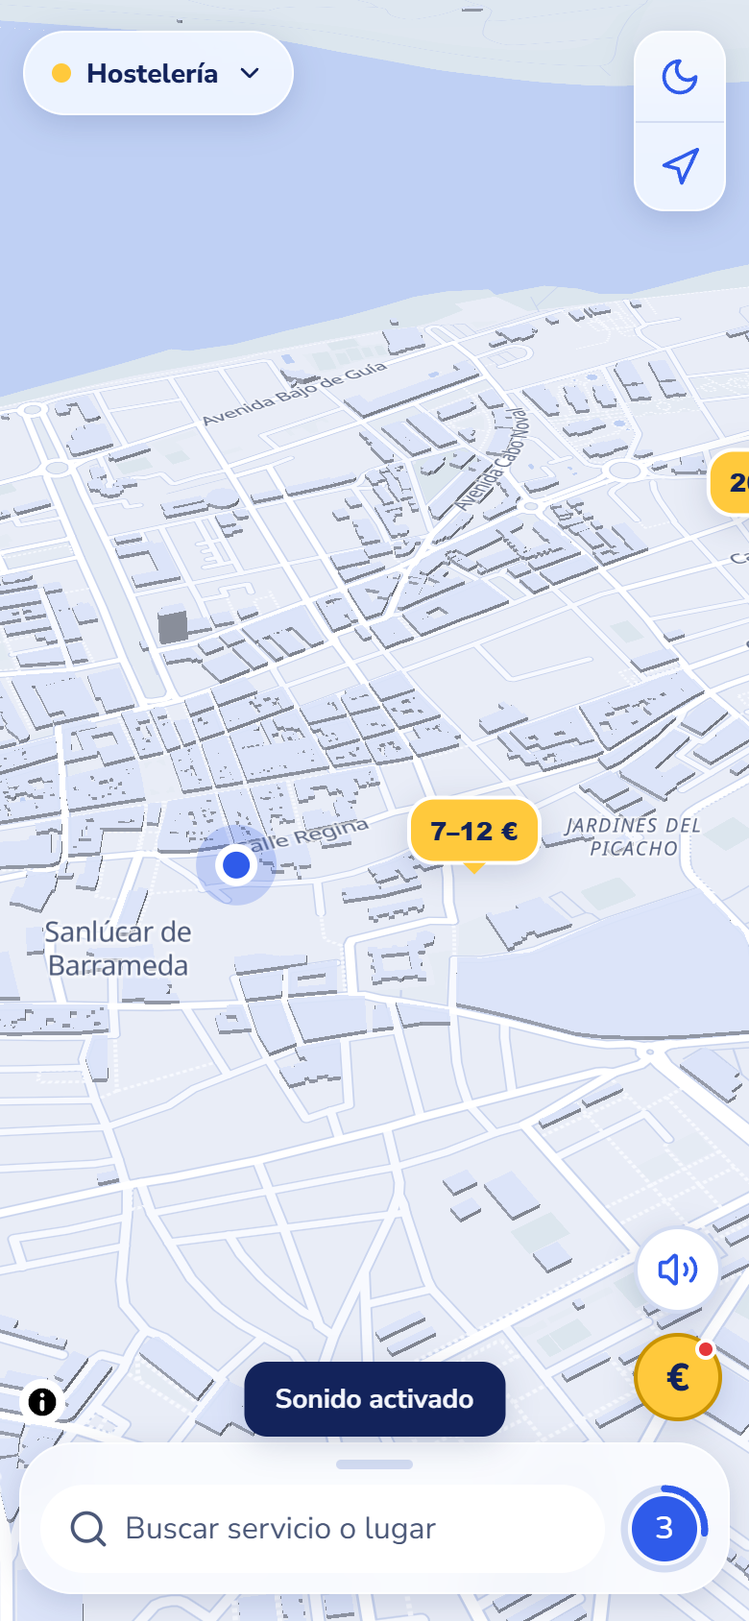
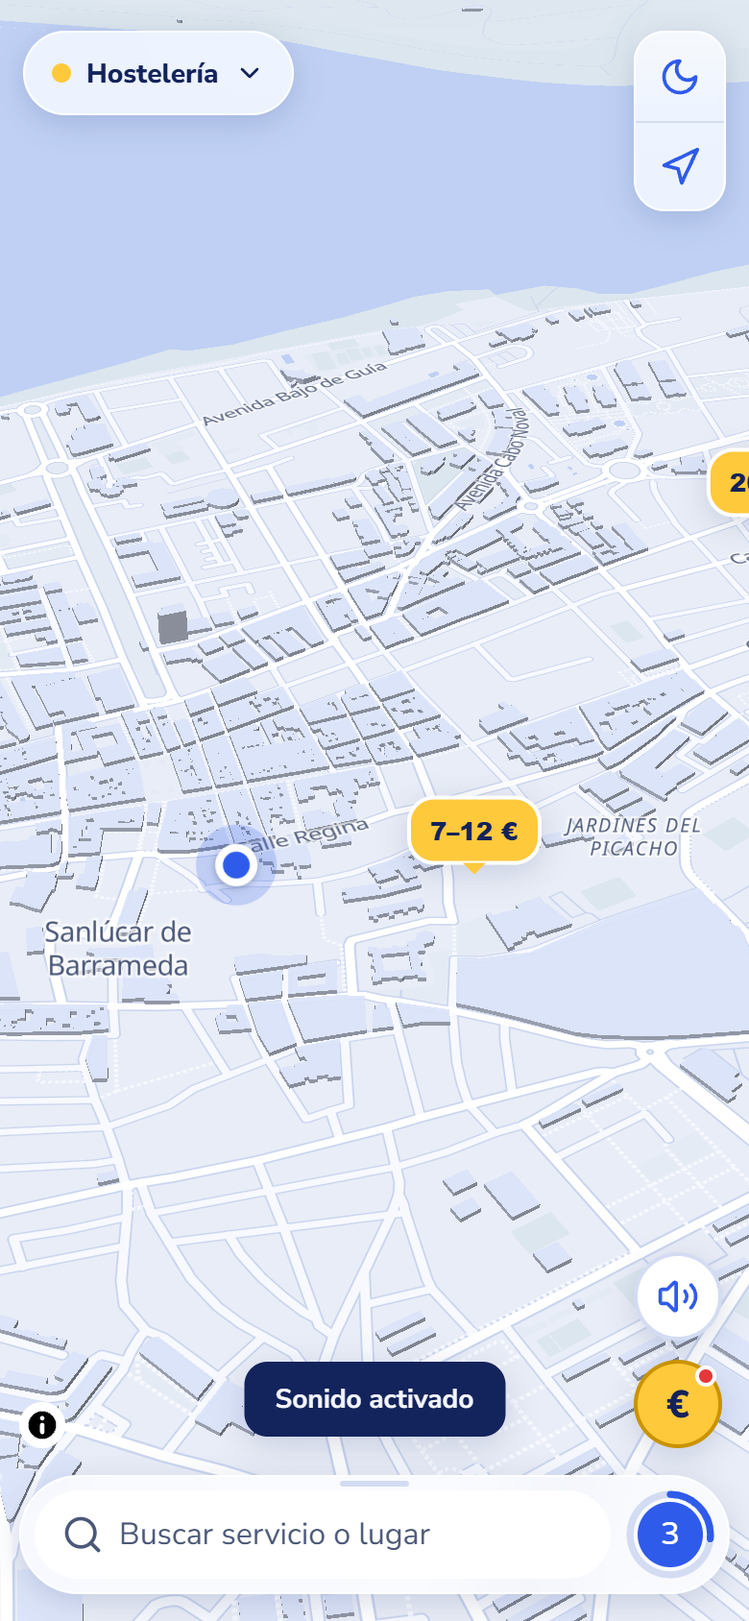
Pregunta a la hora de llegar; ruta hasta 'He finalizado' o 1 min; flecha en coche y cono de brujula a pie; barra del buscador fina y simetrica

Changed region(s): [[0.7385, 0.7393, 0.9846, 0.9858], [0.0308, 0.8318, 0.5846, 0.955]]

diff --git a/prototipo/app.js b/prototipo/app.js
@@ -71,9 +71,12 @@ const S = {
   travelMode: 'coche',                                 // se elige en la ficha; el coche es la opción principal
   settings: { buildings: true, reduceMotion: false, voice: true, sound: true, notifPending: true, notifAlerts: true, anonAll: false },
 };
-// Tiempo desde que llegas hasta que la app pregunta "¿has ido?". 1 minuto para comprobarlo; se ampliará más adelante.
-const ASK_DELAY_MS = 60 * 1000;
+// Tiempo desde que llegas hasta que la app pregunta "¿has ido?": 1 hora, para que dé tiempo a recibir el servicio.
+const ASK_DELAY_MS = 60 * 60 * 1000;
+// Al llegar, la ruta sigue en pantalla hasta pulsar "He finalizado" o hasta que pase este tiempo.
+const ARRIVE_END_MS = 60 * 1000;
 const askDelay = () => window.__askDelayMs ?? ASK_DELAY_MS; // las capturas automáticas lo acortan
+const fmtDelay = ms => ms >= 3600000 ? `${+(ms / 3600000).toFixed(1)} h` : ms >= 60000 ? `${Math.round(ms / 60000)} min` : `${Math.round(ms / 1000)} s`;
 const level = xp => Math.floor(xp / XP_PER_LEVEL) + 1;
 
 // ---------- Utilidades ----------
@@ -285,8 +288,11 @@ function initMap() {
 
   const me = document.createElement('div');
   me.className = 'me';
-  userMarker = new maplibregl.Marker({ element: me }).setLngLat(USER_POS).addTo(map);
+  me.innerHTML = '<div class="me-cone"></div><div class="me-dot"></div><svg class="me-arrow" viewBox="0 0 24 24" aria-hidden="true"><path d="M12 2.5 19.5 20.5 12 16.6 4.5 20.5Z"/></svg>';
+  // rotationAlignment 'map': la rotación es un rumbo respecto al norte (0° = norte), aunque el mapa gire
+  userMarker = new maplibregl.Marker({ element: me, rotationAlignment: 'map', pitchAlignment: 'viewport' }).setLngLat(USER_POS).addTo(map);
   applyCosmetics();
+  updateMe();
 
   for (const p of PLACES) {
     const el = document.createElement('button');
@@ -301,8 +307,49 @@ function initMap() {
 
 function applyCosmetics() {
   const el = userMarker?.getElement(); if (!el) return;
-  el.className = `me ${S.equipped.flecha}`;
+  el.dataset.skin = S.equipped.flecha;
   if (map?.isStyleLoaded()) styleRoute();
+}
+
+// ---------- Indicador de posición: círculo, cono (brújula) o flecha (coche) ----------
+// - Navegando en coche: flecha que apunta hacia donde vas (rumbo de la ruta).
+// - Navegando a pie: círculo con un cono translúcido hacia donde mira el móvil (brújula);
+//   si el dispositivo no tiene brújula (ordenador), el cono sigue la dirección de la ruta.
+// - Sin navegar: círculo, con cono si hay datos de brújula (como en Mapas de Apple).
+function updateMe() {
+  const el = userMarker?.getElement(); if (!el) return;
+  const nav = S.navigating;
+  let mode = 'dot', rot = 0;
+  if (nav && nav.mode === 'coche') { mode = 'arrow'; rot = nav.heading; }
+  else if (nav) { mode = 'cone'; rot = S.compass ?? nav.heading; }
+  else if (S.compass != null) { mode = 'cone'; rot = S.compass; }
+  el.dataset.mode = mode;
+  userMarker.setRotation(rot || 0);
+}
+
+// Brújula del móvil. iOS da el rumbo en webkitCompassHeading (pide permiso con un toque del usuario);
+// Android da "deviceorientationabsolute" con alpha (sentido antihorario) → rumbo = 360 − alpha.
+// Requiere HTTPS (o localhost) en el móvil.
+function onOrientation(e) {
+  let h = null;
+  if (typeof e.webkitCompassHeading === 'number') h = e.webkitCompassHeading;
+  else if (e.absolute && typeof e.alpha === 'number') h = 360 - e.alpha;
+  if (h == null) return;
+  h += screen.orientation?.angle || 0; // móvil en horizontal
+  S.compass = (h + 360) % 360;
+  updateMe();
+}
+let compassOn = false;
+function startCompass() { // llamar desde un toque del usuario (requisito de iOS)
+  if (compassOn) return;
+  const listen = () => {
+    compassOn = true;
+    window.addEventListener('deviceorientationabsolute', onOrientation);
+    window.addEventListener('deviceorientation', onOrientation);
+  };
+  const DOE = window.DeviceOrientationEvent;
+  if (DOE && typeof DOE.requestPermission === 'function') DOE.requestPermission().then(r => { if (r === 'granted') listen(); }).catch(() => {});
+  else listen();
 }
 
 // ---------- Desplegable de categorías ----------
@@ -347,7 +394,7 @@ function closeSearch() {
 //  - lanzamiento rápido hacia arriba → se abre del todo; rápido hacia abajo → se cierra;
 //  - si la sueltas muy cerca de abajo se pliega, y muy cerca de arriba se abre del todo;
 //  - se puede arrastrar desde el asa, desde la fila del buscador y desde la propia lista.
-const SHEET = { OPEN_TOP: 64, CLOSED_H: 93, FLICK: 0.6, CLOSE_BELOW: 0.15, OPEN_ABOVE: 0.88 };
+const SHEET = { OPEN_TOP: 64, CLOSED_H: 76, FLICK: 0.6, CLOSE_BELOW: 0.15, OPEN_ABOVE: 0.88 };
 function setupDockDrag() {
   const dock = $('#dock'), app = $('#app'), panel = $('#searchPanel'), ui = $('#mapUI');
   const isFull = () => dock.classList.contains('open') && !dock.style.top;
@@ -512,9 +559,12 @@ function routeCoords(a, b) {
 function startNav() {
   const p = placeById(S.place);
   const coords = routeCoords(USER_POS, p.pos);
-  S.navigating = { id: p.id, coords };
+  S.navigating = { id: p.id, coords, mode: S.travelMode, heading: bearing(USER_POS, coords[40]), arrived: false, endT: null };
+  if (S.travelMode === 'pie') startCompass(); // a pie el cono sigue la brújula del móvil
+  updateMe();
   closePlace();
   $('#mapUI').hidden = true; $('#navUI').hidden = false; $('#navSimulate').disabled = false;
+  $('#navSimulate').hidden = false; $('#navFinish').hidden = true;
   $('#app').classList.add('navigating');
   const mid = [USER_POS[0], p.pos[1]];
   const total = distM(USER_POS, mid) + distM(mid, p.pos);
@@ -538,8 +588,10 @@ function setNavBanner(dist, instr, icon) {
 }
 function stopNav() {
   if (!S.navigating) return;
+  clearTimeout(S.navigating.endT);
   markers[S.navigating.id]?.getElement().classList.remove('dest');
   S.navigating = null;
+  updateMe();
   map?.getSource('ruta')?.setData({ type: 'FeatureCollection', features: [] });
   userMarker.setLngLat(USER_POS);
   $('#navUI').hidden = true; $('#mapUI').hidden = false;
@@ -559,7 +611,10 @@ function simulateArrival(fast) {
     const k = Math.max(0, Math.min(1, (now - t0) / dur));
     const idx = Math.min(cs.length - 1, Math.floor(k * (cs.length - 1)));
     userMarker.setLngLat(cs[idx]);
-    map?.jumpTo({ center: cs[idx], bearing: bearing(cs[idx], cs[Math.min(cs.length - 1, idx + 5)]) || map.getBearing() });
+    const nxt = cs[Math.min(cs.length - 1, idx + 5)];
+    if (nxt !== cs[idx]) nav.heading = bearing(cs[idx], nxt); // rumbo actual; en el último tramo se conserva el anterior
+    updateMe();
+    map?.jumpTo({ center: cs[idx], bearing: nav.heading });
     const half = Math.floor(cs.length / 2);
     if (idx < half) setNavBanner(fmtDist(distM(cs[idx], cs[half])), `Luego gira a la ${nav.turn}`, nav.turn === 'derecha' ? 'right' : 'left');
     else setNavBanner(fmtDist(distM(cs[idx], cs[cs.length - 1])), 'Sigue recto hasta el destino', 'straight');
@@ -567,7 +622,13 @@ function simulateArrival(fast) {
     else {
       $('#navSimulate').disabled = false; setNavBanner('Has llegado', placeById(nav.id).name, 'arrive');
       addVisit(nav.id); sfx('arrive'); scheduleAsk(nav.id);
-      setTimeout(() => { if (S.navigating === nav) stopNav(); }, 2500); // vuelve al mapa tras ver "Has llegado"
+      // La ruta sigue en pantalla hasta pulsar "He finalizado" o hasta que pase ARRIVE_END_MS
+      nav.arrived = true;
+      $('#navSimulate').hidden = true; $('#navFinish').hidden = false;
+      const endMs = window.__arriveEndMs ?? ARRIVE_END_MS;
+      $('#navEta').textContent = 'Has llegado';
+      $('#navTo').textContent = `La ruta se cierra sola en ${fmtDelay(endMs)}`;
+      nav.endT = setTimeout(() => { if (S.navigating === nav) stopNav(); }, endMs);
     }
   };
   requestAnimationFrame(step);
@@ -577,7 +638,7 @@ function simulateArrival(fast) {
 // para dar tiempo a entrar en el sitio. Si en ese momento ya hay otra pregunta abierta, queda pendiente.
 function scheduleAsk(id) {
   const ms = askDelay();
-  toast(ms >= 60000 ? `Has llegado · te preguntaremos por el precio en ${Math.round(ms / 60000)} min` : 'Has llegado');
+  toast(`Has llegado · te preguntaremos por el precio en ${fmtDelay(ms)}`);
   setTimeout(() => {
     if (S.flow || S.navigating) { // nunca interrumpir otra pregunta ni una ruta en curso (seguridad al conducir)
       if (!S.pending.some(x => x.id === id)) S.pending.unshift({ id, when: 'hoy' });
@@ -928,7 +989,8 @@ function updateHUD() {
 
 // ---------- Eventos ----------
 function bind() {
-  $('#onbStart').addEventListener('click', () => { $('#screen-onboarding').hidden = true; store.set('pl-onb', '1'); });
+  $('#onbStart').addEventListener('click', () => { $('#screen-onboarding').hidden = true; store.set('pl-onb', '1'); startCompass(); });
+  $('#locateFab').addEventListener('click', startCompass); // también al centrar en tu posición (toque del usuario)
   $('#catBtn').addEventListener('click', e => { e.stopPropagation(); $('#catMenu').hidden ? openCatMenu() : closeCatMenu(); });
   $('#catMenu').addEventListener('click', e => { const b = e.target.closest('[data-cat]'); if (b) setFilter(b.dataset.cat); });
   $('#themeFab').addEventListener('click', () => { S.themePref = currentTheme() === 'dark' ? 'light' : 'dark'; store.set('pl-theme', S.themePref); applyTheme(); });
@@ -950,6 +1012,7 @@ function bind() {
     if (S.page) renderProfile();
   }));
   $('#navExit').addEventListener('click', stopNav);
+  $('#navFinish').addEventListener('click', stopNav);
   $('#navSimulate').addEventListener('click', () => simulateArrival(false));
   $('#flowCard').addEventListener('click', onFlowClick);
   $('#screen-perfil').addEventListener('click', onProfileClick);

diff --git a/prototipo/styles.css b/prototipo/styles.css
@@ -44,7 +44,7 @@ h1, h2, h3 { font-family: 'Varela Round', sans-serif; font-weight: 400; }
 #map { position: absolute; inset: 0; }
 .map-error { position: absolute; inset: 0; display: flex; align-items: center; justify-content: center; text-align: center; padding: 32px; color: var(--muted); }
 .maplibregl-ctrl-attrib { font-size: 10px; }
-.maplibregl-ctrl-bottom-left { bottom: 92px; }
+.maplibregl-ctrl-bottom-left { bottom: 80px; }
 
 .pin { background: var(--accent); color: var(--accent-ink); font-weight: 800; font-size: 13px; padding: 6px 10px; border-radius: 14px; box-shadow: var(--shadow); white-space: nowrap; position: relative; cursor: pointer; border: 2px solid var(--surface); transition: transform .15s; min-height: 32px; display: flex; align-items: center; }
 .pin::after { content: ""; position: absolute; left: 50%; bottom: -7px; margin-left: -6px; border: 6px solid transparent; border-bottom: 0; border-top-color: var(--accent); }
@@ -53,9 +53,22 @@ h1, h2, h3 { font-family: 'Varela Round', sans-serif; font-weight: 400; }
 .pin.selected { transform: scale(1.12); outline: 3px solid var(--text); outline-offset: 1px; }
 .pin.dest { outline: 3px solid var(--reward); }
 
-.me { width: 22px; height: 22px; border-radius: 50%; background: var(--accent); border: 4px solid #fff; box-shadow: 0 0 0 10px color-mix(in srgb, var(--accent) 22%, transparent); }
-.me.flecha-dorada { background: #FFC93C; }
-.me.flecha-neon { background: #22D3EE; box-shadow: 0 0 0 10px rgba(34,211,238,.25), 0 0 18px #22D3EE; }
+/* Marcador de posición: el elemento entero gira con el rumbo (MapLibre, rotationAlignment: map).
+   data-mode: dot (círculo) · cone (círculo + cono de la brújula, a pie) · arrow (flecha, en coche) */
+.me { --me: var(--accent); width: 22px; height: 22px; position: relative; pointer-events: none; }
+.me[data-skin="flecha-dorada"] { --me: #FFC93C; }
+.me[data-skin="flecha-neon"] { --me: #22D3EE; }
+.me-dot { position: absolute; inset: 0; border-radius: 50%; background: var(--me); border: 4px solid #fff; box-shadow: 0 0 0 10px color-mix(in srgb, var(--me) 22%, transparent), 0 1px 4px rgba(0,0,0,.3); }
+.me[data-skin="flecha-neon"] .me-dot { box-shadow: 0 0 0 10px rgba(34,211,238,.25), 0 0 18px #22D3EE; }
+.me-cone { display: none; position: absolute; left: 50%; bottom: 50%; width: 84px; height: 70px; margin-left: -42px;
+  clip-path: polygon(50% 100%, 6% 0, 94% 0);
+  background: radial-gradient(ellipse 55% 100% at 50% 100%, color-mix(in srgb, var(--me) 75%, transparent) 0%, color-mix(in srgb, var(--me) 25%, transparent) 60%, transparent 100%); }
+.me-arrow { display: none; position: absolute; left: 50%; top: 50%; width: 44px; height: 44px; margin: -22px 0 0 -22px; filter: drop-shadow(0 2px 4px rgba(0,0,0,.4)); }
+.me-arrow path { fill: var(--me); stroke: #fff; stroke-width: 1.6; stroke-linejoin: round; }
+.me[data-skin="flecha-neon"] .me-arrow { filter: drop-shadow(0 0 6px #22D3EE); }
+.me[data-mode="cone"] .me-cone { display: block; }
+.me[data-mode="arrow"] .me-dot { display: none; }
+.me[data-mode="arrow"] .me-arrow { display: block; }
 
 /* ===== Interfaz sobre el mapa (estilo Mapas de Apple) ===== */
 .map-ui { position: absolute; inset: 0; pointer-events: none; z-index: 20; }
@@ -84,7 +97,7 @@ h1, h2, h3 { font-family: 'Varela Round', sans-serif; font-weight: 400; }
 .ctrl-stack button + button { border-top: 1px solid var(--border); }
 
 /* Columna de burbujas: sonido encima de precios */
-.fab-col { position: absolute; right: 14px; bottom: 104px; display: flex; flex-direction: column; gap: 10px; align-items: center; }
+.fab-col { position: absolute; right: 14px; bottom: 90px; display: flex; flex-direction: column; gap: 10px; align-items: center; }
 .bubble { width: 46px; height: 46px; border-radius: 50%; background: var(--surface); border: 2px solid var(--border); color: var(--accent-text); display: flex; align-items: center; justify-content: center; box-shadow: var(--shadow); transition: transform .15s; }
 .bubble:active { transform: scale(.94); }
 .bubble.off { color: var(--muted); }
@@ -98,13 +111,18 @@ h1, h2, h3 { font-family: 'Varela Round', sans-serif; font-weight: 400; }
 
 /* Dock inferior: buscador + avatar */
 /* Cerrado: top explícito (no "auto") para que la apertura y el cierre se puedan animar y arrastrar */
-.dock { position: absolute; left: 10px; right: 10px; top: calc(100% - 93px); bottom: 14px; border-radius: 28px; padding: 0 10px 10px; display: flex; flex-direction: column; overflow: hidden;
-  transition: top .32s cubic-bezier(.2, .8, .2, 1), left .32s, right .32s, bottom .32s, border-radius .32s, background-color .32s; }
+/* Cerrada: el mismo hueco arriba y abajo del buscador (7 px), lo más fina posible.
+   Alto total = 7 + 46 + 7 + 2 de borde = 62 px → top = 100% − 62 − 14 (margen inferior) = 100% − 76 px */
+.dock { position: absolute; left: 10px; right: 10px; top: calc(100% - 76px); bottom: 14px; border-radius: 31px; padding: 7px; display: flex; flex-direction: column; overflow: hidden;
+  transition: top .32s cubic-bezier(.2, .8, .2, 1), left .32s, right .32s, bottom .32s, border-radius .32s, padding .32s, background-color .32s; }
 .dock.dragging { transition: none; }
 .dock:not(.open) { touch-action: none; cursor: grab; }
 .dock:not(.open) .search input { pointer-events: none; } /* el toque lo recoge la etiqueta; así arrastrar no abre el teclado */
-.grab-zone { height: 21px; flex: none; display: flex; align-items: center; justify-content: center; touch-action: none; cursor: grab; }
-.grab { width: 40px; height: 5px; border-radius: 3px; background: var(--border); flex: none; }
+/* Asa: cerrada va superpuesta en el borde superior (no añade alto); abierta tiene su propio espacio */
+.grab-zone { position: absolute; top: 0; left: 0; right: 0; height: 7px; display: flex; justify-content: center; padding-top: 2px; touch-action: none; cursor: grab; z-index: 1; transition: height .32s, padding .32s; }
+.grab { width: 36px; height: 3px; border-radius: 2px; background: var(--border); flex: none; transition: width .32s, height .32s; }
+.dock.open .grab-zone { height: 24px; padding-top: 9px; }
+.dock.open .grab { width: 40px; height: 5px; }
 .dock .dock-line { flex: none; }
 .dock-line { display: flex; align-items: center; gap: 8px; }
 .search { flex: 1; min-width: 0; height: 46px; border-radius: 23px; background: var(--surface); display: flex; align-items: center; gap: 8px; padding: 0 14px; color: var(--muted); cursor: text; }
@@ -121,7 +139,7 @@ h1, h2, h3 { font-family: 'Varela Round', sans-serif; font-weight: 400; }
 .avatar-btn .face { width: 34px; height: 34px; border-radius: 50%; background: var(--accent); color: var(--accent-ink); display: flex; align-items: center; justify-content: center; font-family: 'Varela Round', sans-serif; font-size: 16px; }
 
 /* Buscador desplegado hacia arriba */
-.dock.open { top: 64px; left: 0; right: 0; bottom: 0; border-radius: 26px 26px 0 0; background: var(--surface); padding: 0 14px 0; }
+.dock.open { top: 64px; left: 0; right: 0; bottom: 0; border-radius: 26px 26px 0 0; background: var(--surface); padding: 24px 14px 0; }
 [data-theme="dark"] .dock.open .search { background: var(--surface2); }
 .dock.open .search { border: 2px solid var(--accent); }
 .map-ui.searching .cat-dd, .map-ui.searching .ctrl-stack, .map-ui.searching .fab-col { display: none; }

diff --git a/prototipo/herramientas/capturas.js b/prototipo/herramientas/capturas.js
@@ -22,6 +22,8 @@ const path = require('path');
     await page.evaluate(id => { proto.openPlace(id); proto.startNav(); }, id);
     await page.waitForTimeout(1000);
     await page.evaluate(() => proto.simulateArrival(true));
+    await page.waitForSelector('#navFinish:not([hidden])');
+    await page.click('#navFinish');
     await page.waitForSelector('#flowOverlay:not([hidden])');
   };
 
@@ -76,14 +78,24 @@ const path = require('path');
   await page.click('[data-mode="pie"]');
   await page.evaluate(() => document.querySelector('#placeSheet').scrollTo(0, 9999));
   await shot('09c-ficha-a-pie', 300);
-  await page.click('[data-mode="coche"]');
 
-  // Navegación real (con la animación) hasta Psicología
+  // A pie: círculo con cono (sin brújula en el ordenador, el cono sigue la ruta)
   await page.click('[data-act="go"]');
-  await shot('10-navegacion', 1400);
+  await shot('10b-a-pie-cono', 1400);
+  await page.click('#navExit');
+  await page.waitForTimeout(1000);
+
+  // En coche (por defecto): flecha. Navegación real con la animación hasta Psicología
+  await page.evaluate(() => proto.openPlace('psico'));
+  await page.waitForTimeout(800);
+  await page.click('[data-act="go"]');
+  await shot('10-navegacion-coche-flecha', 1400);
   await page.click('#navSimulate');
+  await page.waitForTimeout(1500);
+  await shot('10c-coche-flecha-girando', 0);
   await page.waitForFunction(() => document.querySelector('#navDist').textContent === 'Has llegado');
-  await shot('11a-has-llegado-espera', 300);
+  await shot('11a-has-llegado-ruta-sigue', 300);
+  await page.click('#navFinish');
   await page.waitForSelector('#flowOverlay:not([hidden])', { timeout: 15000 });
   await shot('11-pregunta-tras-espera', 500);
 

diff --git a/prototipo/index.html b/prototipo/index.html
@@ -83,6 +83,10 @@
           <svg class="ic" viewBox="0 0 24 24"><polygon points="3 11 22 2 13 21 11 13 3 11"/></svg>
           Simular llegada (GPS simulado)
         </button>
+        <button class="btn primary" id="navFinish" hidden>
+          <svg class="ic" viewBox="0 0 24 24"><path d="M20 6 9 17l-5-5"/></svg>
+          He finalizado
+        </button>
       </div>
     </div>
 

diff --git a/docs/memoria-tfg.md b/docs/memoria-tfg.md
@@ -280,9 +280,28 @@ Prototipo web interactivo, situado en **Sanlúcar de Barrameda** y con estableci
   - ya no está en los ajustes de navegación.
 - **Burbuja de sonido:** es igual que la de precios y está **encima de ella**. Silencia o activa los sonidos de la app (llegada, pregunta y monedas), que se generan con Web Audio, sin archivos. También aparece durante la navegación.
 - **La pregunta "¿has ido?" se retrasa:**
-  - ya no sale al llegar, sino **1 minuto después**, para dar tiempo a entrar en el sitio. El tiempo es provisional y está en la constante `ASK_DELAY_MS`;
-  - al llegar se muestra "Has llegado" y la app vuelve al mapa;
-  - si al cumplirse el minuto hay otra pregunta abierta o una **ruta en curso**, la visita pasa a pendientes (botón €) en lugar de interrumpir. Así no se distrae a quien conduce.
+  - ya no sale al llegar, sino **1 hora después** (`ASK_DELAY_MS`), para que el usuario tenga tiempo de **recibir el servicio** antes de valorar el precio. En una primera versión se probó con 1 minuto;
+  - si al cumplirse la hora hay otra pregunta abierta o una **ruta en curso**, la visita pasa a pendientes (botón €) en lugar de interrumpir. Así no se distrae a quien conduce;
+  - *limitación del prototipo:* el temporizador solo funciona con la página abierta. En la app real tendría que ser una **notificación programada**, porque la app puede estar cerrada.
+- **La ruta no desaparece al llegar:**
+  - se muestra "Has llegado" con el botón **"He finalizado"**;
+  - si no se pulsa, la ruta se cierra sola **1 minuto después de llegar** (`ARRIVE_END_MS`).
+- **Indicador de posición según el modo** (como en Mapas de Apple y Waze):
+  - **en coche**, el círculo se convierte en una **flecha** que apunta hacia donde vas;
+  - **a pie**, se mantiene el **círculo con un cono translúcido** que indica hacia dónde mira el móvil;
+  - el rumbo se obtiene de la **brújula del dispositivo**:
+    - en iOS, con `webkitCompassHeading`, que exige pedir permiso tras un toque del usuario;
+    - en Android, con el evento `deviceorientationabsolute`, donde el rumbo es 360° − alpha;
+    - en ambos casos se corrige la orientación de la pantalla;
+  - si el dispositivo no tiene brújula, como un ordenador, el cono sigue la dirección de la ruta;
+  - fuera de la navegación, el cono aparece solo si hay datos de brújula;
+  - el marcador gira con `rotationAlignment: 'map'`, así que el rumbo es respecto al norte aunque el mapa esté girado;
+  - los cosméticos de la tienda (dorado, neón) se aplican al círculo, al cono y a la flecha;
+  - *requisito:* la brújula del navegador solo funciona con **HTTPS**, así que para probarla en el móvil hay que publicar el prototipo (por ejemplo, en GitHub Pages).
+- **Barra del buscador fina y simétrica:**
+  - cerrada, deja el **mismo hueco (7 px) por encima y por debajo** del campo de búsqueda;
+  - el asa va superpuesta en el borde, así que no añade altura;
+  - al abrirse, el asa recupera su espacio.
 - **Perfil:** se abre desde el avatar y reúne la actividad (pendientes, aportaciones, favoritos, avisos, insignias), la **tienda** y unos **ajustes agrupados por secciones**, tomando Discord como referencia:
   - Apariencia;
   - Navegación y voz (a pie / en coche, que cambia la ETA);
@@ -295,7 +314,7 @@ Prototipo web interactivo, situado en **Sanlúcar de Barrameda** y con estableci
 - **Fallo corregido en la simulación de la ruta:** a veces la animación se paraba sin llegar al destino.
   - *Causa:* la marca de tiempo que recibe `requestAnimationFrame` puede ser anterior al instante en que se guardaba el inicio. El progreso salía negativo y se pedía la posición `-1` de la ruta.
   - *Solución:* el inicio se toma del primer fotograma y el progreso se limita a [0, 1]. Además, "Salir" ahora cancela la simulación.
-- 29 capturas regeneradas con Playwright, sin errores en la consola.
+- 31 capturas regeneradas con Playwright, sin errores en la consola.
 
 ### 4.12 Alcance del prototipo **[Parcial]**
 **Dentro:**
@@ -390,3 +409,7 @@ Ideas de trabajo futuro ya identificadas:
 | 12/11/2026 | Coche o a pie se elige en la ficha, con el coche por defecto | Se decide al elegir destino, no en los ajustes |
 | 12/11/2026 | Burbuja de sonido encima de la de precios | Silenciar rápido sin entrar en los ajustes |
 | 12/11/2026 | La pregunta "¿has ido?" sale 1 minuto después de llegar (provisional, se ampliará) | Dar tiempo a entrar; no interrumpir una ruta en curso |
+| 12/11/2026 | La pregunta pasa a salir 1 hora después de llegar | Que dé tiempo a recibir el servicio antes de preguntar el precio |
+| 12/11/2026 | La ruta sigue al llegar hasta pulsar "He finalizado" o pasar 1 minuto | No cortar la guía de golpe al llegar |
+| 12/11/2026 | Flecha de rumbo en coche; círculo con cono de brújula a pie | Lenguaje visual habitual de los GPS; a pie importa hacia dónde miras |
+| 12/11/2026 | Barra del buscador fina y simétrica | Más espacio para el mapa y un aspecto más limpio |

diff --git a/prototipo/README.md b/prototipo/README.md
@@ -27,7 +27,9 @@ Abre `index.html` con doble clic en el navegador. Hace falta conexión a interne
    - ocio: varios precios y 3 criterios de valoración.
 7. **Navegación con GPS simulado:**
    - en la ficha eliges **en coche** (por defecto) o **a pie**, y luego pulsas "Simular llegada";
-   - al llegar, la pregunta "¿has ido?" **sale al cabo de 1 minuto** (`ASK_DELAY_MS` en `app.js`);
+   - durante la ruta, **en coche** ves una flecha de rumbo y **a pie** un círculo con un cono que sigue la brújula del móvil (necesita HTTPS en el móvil; en el ordenador, el cono sigue la ruta);
+   - al llegar, la ruta sigue hasta pulsar **"He finalizado"** o se cierra sola en 1 minuto (`ARRIVE_END_MS`);
+   - la pregunta "¿has ido?" **sale 1 hora después de llegar** (`ASK_DELAY_MS` en `app.js`; solo con la página abierta);
    - la **burbuja del altavoz**, encima de la del €, silencia o activa los sonidos.
 8. **Preguntas al llegar:**
    1. ¿has ido?
@@ -52,4 +54,4 @@ Abre `index.html` con doble clic en el navegador. Hace falta conexión a interne
 npm install playwright@1.56.1
 node herramientas/capturas.js "<ruta>/prototipo/index.html" "<ruta>/docs/diseno/capturas"
 ```
-Usa Microsoft Edge (`channel: 'msedge'`). El script recorre todo el flujo y guarda 29 capturas. Acorta la espera de la pregunta de llegada con `window.__askDelayMs`.
+Usa Microsoft Edge (`channel: 'msedge'`). El script recorre todo el flujo y guarda 31 capturas. Acorta la espera de la pregunta de llegada con `window.__askDelayMs`.

diff --git a/especificacionesBasicas.md b/especificacionesBasicas.md
@@ -46,7 +46,12 @@ App móvil de mapa/GPS colaborativo cuya idea principal es el **COSTE** de estab
   - se arrastra también desde la lista.
 - Coche o a pie se elige en la ficha del sitio (coche por defecto), no en los ajustes.
 - Burbuja de sonido (silenciar o activar) encima de la burbuja de precios.
-- La pregunta "¿has ido?" sale 1 minuto después de llegar (provisional, se ampliará). Si hay una ruta en curso, pasa a pendientes.
+- La pregunta "¿has ido?" sale **1 hora después de llegar**, para dar tiempo a recibir el servicio. Si hay una ruta en curso, pasa a pendientes. En la app real será una notificación programada.
+- Al llegar, la ruta sigue en pantalla hasta pulsar "He finalizado" o hasta que pase 1 minuto.
+- Indicador de posición:
+  - **en coche**, una flecha de rumbo;
+  - **a pie**, un círculo con un cono translúcido que sigue la brújula del móvil. La brújula necesita HTTPS en el móvil.
+- Barra del buscador fina, con el mismo hueco arriba y abajo.
 - Modelo unificado: establecimiento → lista de conceptos con precio (ver [docs/estudio-tipos-negocio.md](docs/estudio-tipos-negocio.md)).
 - El negocio puede declarar un precio inicial (opcional). El poder está en los clientes: si reportan un precio distinto, la app actualiza el precio mostrado.
 - Pregunta de un solo toque: "¿el coste fue X?" / "¿sigue costando X?".
